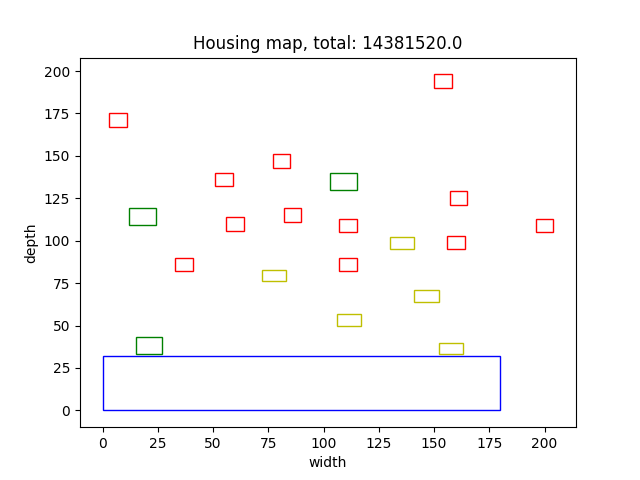
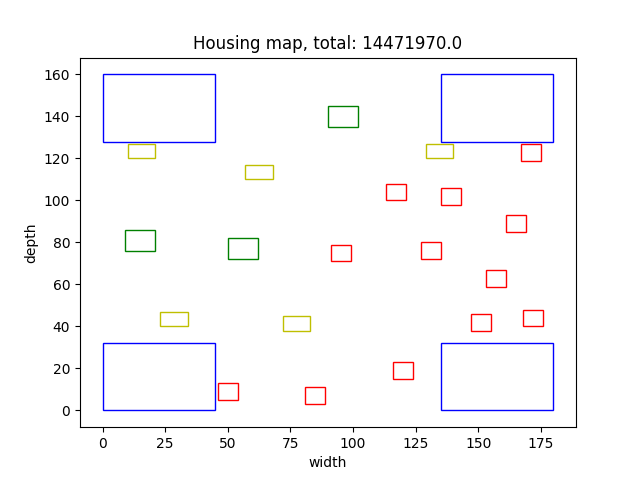
algorithm now takes first bigger steps and than smaller, improved performance

diff --git a/project_code/algorithms/hillclimber.py b/project_code/algorithms/hillclimber.py
@@ -13,22 +13,24 @@ class HillClimber():
 
         # checks if house intersects with water
         for water in waters:
-            if house.polygon.intersects(water.polygon):
-                # print("test intersects water")   
+            if water.polygon.intersects(house.polygon):
                 return False
-            else:
-                return True
 
-        # print("test in valid")
-        # checks if house is outside the borders of the land
-        if house.bottom_left[0] < house.free_space or house.bottom_left[0] > 180 - house.width_with_freespace or house.bottom_left[1] < house.free_space or house.bottom_left[1] > 160 - house.depth_with_freespace or house.top_right[0] < house.width_with_freespace or house.top_right[0] > 180 - house.free_space or house.top_right[1] < house.depth_with_freespace or house.top_right[1] > 160 - house.free_space:
-            # print("test crosses border")            
-            return False
-        else: 
-            return True
-        
-        # print("test no overlap")
+        # if house.bottom_left[0] - house.free_space < 0 or house.bottom_left[0] + house.free_space > 180:
+        #     return False
+        # if house.bottom_left[1] - house.free_space < 0 or house.bottom_left[1] + house.free_space > 160:
+        #     return False
+        # if house.top_right[0] - house.free_space < 0 or house.top_right[0] + house.free_space > 180: 
+        #     return False
+        # if house.top_right[1] - house.free_space < 0 or house.top_right[1] + house.free_space > 160:
+        #     return False
         # return True
+
+
+        if house.bottom_left[0] < house.free_space or house.bottom_left[0] > 180 - house.width_with_freespace or house.bottom_left[1] < house.free_space or house.bottom_left[1] > 160 - house.depth_with_freespace or house.top_right[0] < house.width_with_freespace or house.top_right[0] > 180 - house.free_space or house.top_right[1] < house.depth_with_freespace or house.top_right[1] > 160 - house.free_space:
+            return False
+    
+        return True
 
     def run(self, housing_map):
         print("housing map value:")
@@ -38,7 +40,15 @@ class HillClimber():
         generations.append("copy_map")
         current_best_value = copy_map.total
         counter = 0
-        for i in range(200):
+        iterations = 40
+
+        for i in range(iterations):
+
+            if counter < (iterations / 2):
+                steps = 2
+            if counter >= (iterations / 2):
+                steps = 1
+
             for house in copy_map.all_land_objects:
                 copy_map.total = 0
                 if house.name != "water":
@@ -46,14 +56,14 @@ class HillClimber():
 
                     # moves house to the right
                     total_value_right = 0
-                    house.move(1, 0)
+                    house.move(steps, 0)
 
                     # checks for overlap
                     if self.valid_move(house, housing_map.water):
                         copy_map.calculate_distance(copy_map.all_land_objects)
                         total_value_right = copy_map.calculate_price(copy_map.all_land_objects)
                         # copy_map_right = deepcopy(copy_map)
-                    house.move(-1, 0)
+                    house.move(-steps, 0)
                     copy_map.total = 0
 
                     if total_value_right > current_best_value:
@@ -64,14 +74,14 @@ class HillClimber():
 
                     # moves house to the left
                     total_value_left = 0
-                    house.move(-1, 0)
+                    house.move(-steps, 0)
 
                     # checks for overlap
                     if self.valid_move(house, housing_map.water):
                         copy_map.calculate_distance(copy_map.all_land_objects)
                         total_value_left = copy_map.calculate_price(copy_map.all_land_objects)
                         # copy_map_left = deepcopy(copy_map)
-                    house.move(1, 0)
+                    house.move(steps, 0)
                     copy_map.total = 0
 
                     if total_value_left > current_best_value:
@@ -82,14 +92,14 @@ class HillClimber():
 
                     # moves house up
                     total_value_up = 0
-                    house.move(0, 1)
+                    house.move(0, steps)
                     
                     # checks for overlap
                     if self.valid_move(house, housing_map.water):
                         copy_map.calculate_distance(copy_map.all_land_objects)
                         total_value_up = copy_map.calculate_price(copy_map.all_land_objects)
                         # copy_map_up = deepcopy(copy_map)
-                    house.move(0, -1)
+                    house.move(0, -steps)
                     copy_map.total = 0
 
                     if total_value_up > current_best_value:
@@ -100,14 +110,14 @@ class HillClimber():
 
                     # moves house down
                     total_value_down = 0
-                    house.move(0, -1)
+                    house.move(0, -steps)
                     
                     # checks for overlap
                     if self.valid_move(house, housing_map.water):
                         copy_map.calculate_distance(copy_map.all_land_objects)
                         total_value_down = copy_map.calculate_price(copy_map.all_land_objects)
                         # copy_map_down = deepcopy(copy_map)
-                    house.move(0, 1)
+                    house.move(0, steps)
                     copy_map.total = 0
 
                     if total_value_down > current_best_value:
@@ -117,19 +127,19 @@ class HillClimber():
                         current_best_value = total_value_down
                     
                     if generations[0] == "right":
-                        house.move(1, 0)
+                        house.move(steps, 0)
                         # copy_map = deepcopy(copy_map)
 
                     elif generations[0] == "left":
-                        house.move(-1, 0)
+                        house.move(-steps, 0)
                         # copy_map = deepcopy(copy_map)
 
                     elif generations[0] == "up":
-                        house.move(0, 1)
+                        house.move(0, steps)
                         # copy_map = deepcopy(copy_map)
 
                     elif generations[0] == "down":
-                        house.move(0, -1)
+                        house.move(0, -steps)
                         # copy_map = deepcopy(copy_map)
                     
                     generations = ["copy_map"]

diff --git a/project_code/classes/land.py b/project_code/classes/land.py
@@ -14,7 +14,8 @@ class Land():
         self.depth = 160
         self.all_land_objects = []
         self.total = 0
-        self.water = self.load_water(source_file)
+        self.water = []
+        self.load_water(source_file)
         #self.load_houses(number_houses)
         
     def overlap(self, house):
@@ -52,13 +53,12 @@ class Land():
                 top_right_tuple = tuple((int(top_right.split(',')[0]), int(top_right.split(',')[1])))
                 
                 polygon = Polygon([bottom_left_tuple, (top_right_tuple[0], bottom_left_tuple[1]), top_right_tuple, (bottom_left_tuple[0], top_right_tuple[1])])
-
+                
                 water = Water(bottom_left_tuple, top_right_tuple, polygon)
 
                 self.all_land_objects.append(water)
+                self.water.append(water)
          
-        return self.all_land_objects
-       
     def calculate_distance(self, houses):
         '''
         Calculate distance to closest house

diff --git a/main.py b/main.py
@@ -33,7 +33,7 @@ if __name__ == "__main__":
 
     # --------------------------- Hill Climber  --------------------------
     empty_graph = Land(f"data/{wijk_number}.csv")
-    starting_graph = Randomise(empty_graph, number_of_houses, 12)
+    starting_graph = Randomise(empty_graph, number_of_houses, 100)
     winner_graph = HillClimber(starting_graph.winner)
     visualise(winner_graph.winner.all_land_objects, winner_graph.winner.total)
 
